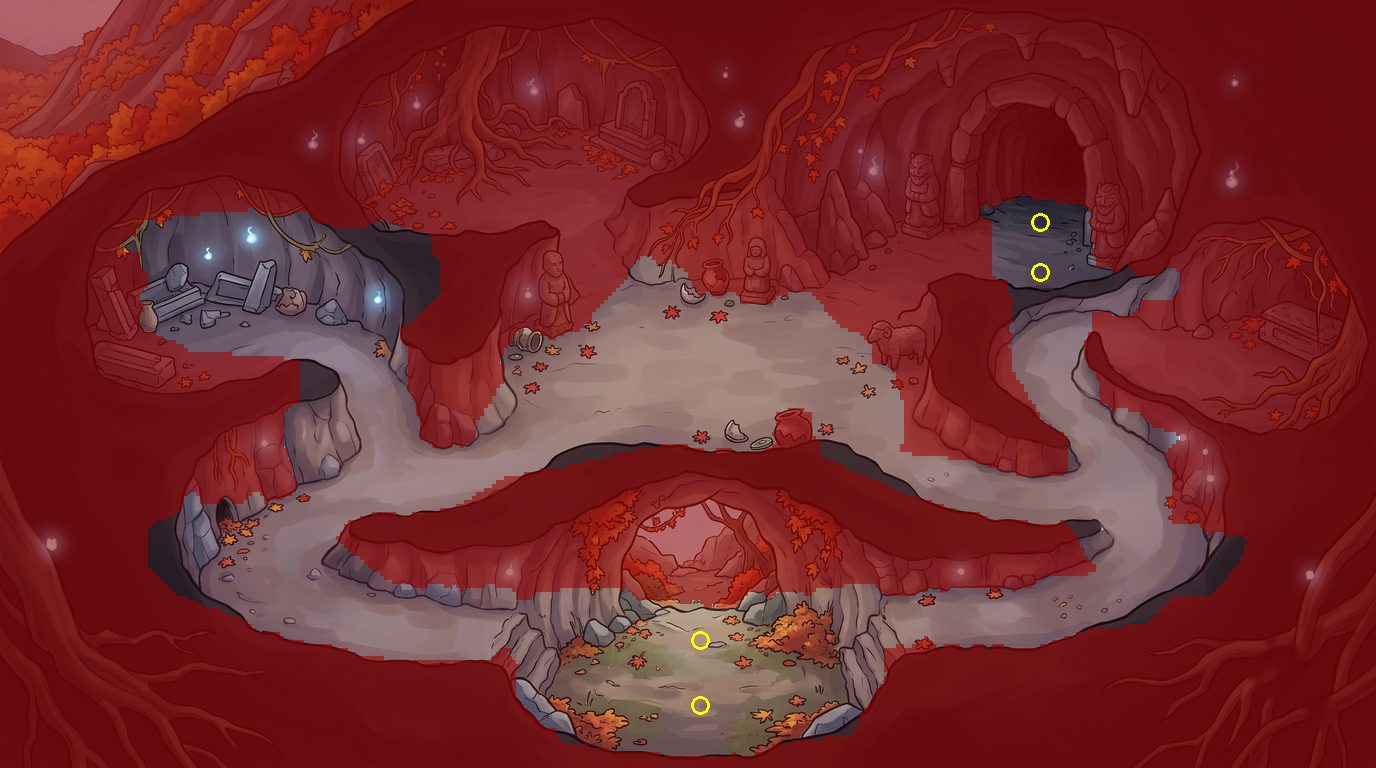
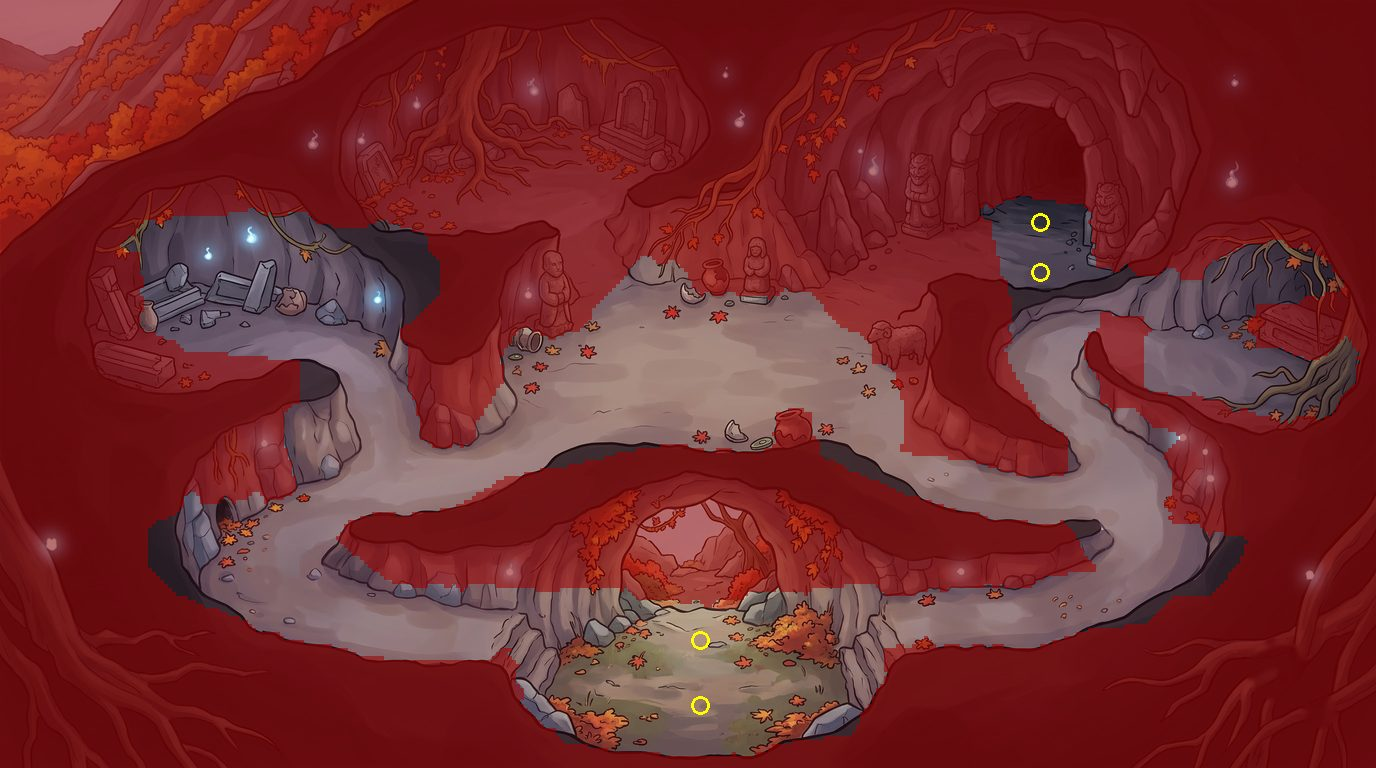
10-22: 패시브 아이콘 9, 너구리·여우 격자(막힌 방 열기), 규격 feedback_1022(무예 배율·맵 검사·벽 위 몬스터·효과 그림·무예 트리·단추·숫자 ×10·방어력 비율식), 효과 그림 Flow 136~138
Claude-Session: https://claude.ai/code/session_019MAg98TwRdw68YbpZExPcG

diff --git a/tools/art/grid_fine_polys.py b/tools/art/grid_fine_polys.py
@@ -96,12 +96,17 @@ MAPS['dungeon_boar_1']=copy.deepcopy(MAPS['dungeon_dog_1'])
 MAPS['dungeon_raccoon_1']=copy.deepcopy(MAPS['dungeon_dog_1'])
 MAPS['dungeon_fox_1']=copy.deepcopy(MAPS['dungeon_dog_1'])
 MAPS['dungeon_boar_1']['add']+=[[(640,535),(740,535),(750,600),(630,600)],[(1100,240),(1200,240),(1190,292),(1100,292)]]
-MAPS['dungeon_fox_1']['add']+=[[(980,200),(1090,200),(1100,265),(1170,270),(1180,295),(1010,300),(990,260)]]
+MAPS['dungeon_fox_1']['add']+=[[(980,200),(1090,200),(1100,265),(1170,270),(1180,295),(1010,300),(990,260)],
+  [(1180,300),(1230,250),(1300,240),(1350,280),(1360,380),(1330,420),(1250,420),(1190,380)],[(1150,320),(1212,310),(1212,385),(1150,392)]]   # 10-22 오른쪽 석관 방
+MAPS['dungeon_fox_1'].setdefault('force',[]).append([(1150,330),(1210,325),(1210,375),(1150,380)])
 MAPS['dungeon_fox_1']['cut']+=[[(88,258),(142,258),(142,345),(88,345)],[(88,335),(182,335),(182,388),(88,388)],
   [(530,245),(585,245),(585,335),(530,335)],[(735,235),(785,235),(785,300),(735,300)],[(865,315),(935,315),(935,370),(865,370)],
-  [(770,405),(815,405),(815,448),(770,448)],[(630,180),(800,180),(800,262),(630,262)],[(695,255),(735,255),(735,295),(695,295)]]
+  [(770,405),(815,405),(815,448),(770,448)],[(630,180),(800,180),(800,262),(630,262)],[(695,255),(735,255),(735,295),(695,295)],
+  [(1252,298),(1342,298),(1342,352),(1252,352)]]
 MAPS['dungeon_raccoon_1']['add']+=[[(670,440),(770,440),(760,600),(680,600)],[(960,205),(1040,205),(1045,280),(1010,300),(990,270)],[(840,270),(900,225),(960,205),(990,270),(920,305),(870,305)]]
-MAPS['dungeon_raccoon_1']['cut']+=[[(1045,245),(1250,245),(1250,342),(1045,342)],
+MAPS['dungeon_raccoon_1']['add']+=[[(1000,282),(1060,262),(1150,282),(1250,298),(1252,345),(1180,362),(1100,356),(1050,340)]]   # 10-22 보물 방도 걸어 들어가게(물건만 막음)
+MAPS['dungeon_raccoon_1']['force']=[[(866,258),(944,258),(934,322),(878,322)],[(818,292),(890,292),(890,334),(818,334)]]   # 10-22 가운데 방 → 우두머리 굴 입구 바로 이어짐
+MAPS['dungeon_raccoon_1']['cut']+=[[(1088,238),(1132,238),(1132,282),(1088,282)],[(1145,232),(1192,232),(1192,284),(1145,284)],[(1188,236),(1252,236),(1252,292),(1188,292)],
   [(890,560),(960,520),(1100,515),(1220,540),(1220,600),(1100,650),(950,650),(890,610)],[(640,185),(770,185),(770,262),(640,262)]]
 for k in ['dungeon_rat_1','dungeon_rat_2','dungeon_rat_3','dungeon_weasel_1','dungeon_snake_1','dungeon_snake_2']:
     MAPS[k]=dict(fromGrid=True)

diff --git a/tools/art/v3_passive_icons.py b/tools/art/v3_passive_icons.py
@@ -1,0 +1,11 @@
+# 패시브 아이콘 9개(Flow 134~135, 2026-10-22) → assets/items/icons/skill_<id>.png
+# 135번 시트는 Flow가 5개를 그림(4번째는 요청에 없던 글자 모양 → 버림)
+import sys, os; sys.path.insert(0,'/home/claude/seolhwa-rpg/tools/art')
+from v3_tier3_icons import items, OUT
+from PIL import Image
+R=items('skill_passive1_sheet.webp',['skill_p_body','skill_p_blade','skill_p_vital','skill_p_breath','skill_p_feet'],1,3)
+R.update(items('skill_passive2_sheet.webp',['skill_p_iron','skill_p_momentum','skill_p_master','_drop','skill_p_tiger'],1,3))
+os.remove(OUT+'_drop.png'); R.pop('_drop')
+P=Image.new('RGBA',(9*130,130),(70,70,70,255))
+for k,nm in enumerate(R): P.alpha_composite(R[nm].resize((128,128)),(k*130,1))
+P.convert('RGB').save('/home/claude/seolhwa-rpg/docs/passive_icons.png'); print(list(R))

diff --git a/docs/spec/feedback_1022.md b/docs/spec/feedback_1022.md
@@ -1,0 +1,86 @@
+# 2026-10-22 강콩 피드백 — 무예 데미지, 못 가는 곳, 벽 위 몬스터, 무예 그림, 무예창(트리), 단추 자리, 숫자 키우기
+
+숫자는 모두 임시값. 무예 정리본(강콩 검토용 문서): "검객 무예 정리본"(claude.ai 문서) — 이 파일과 내용이 같음.
+
+## 1. 무예가 평타보다 약함
+
+- 원인(코드 확인): 무예 데미지 = (무기 공격력 + 레벨 보너스) × `damageMul`로 평타와 같은 바탕인데, 여러 번 때리는 무예의 배율이 1보다 작음(휘돌려 베기 0.7·삼연참 0.8·회오리 0.8·호통 0.5) → **한 번에 뜨는 숫자가 평타보다 작아** 약해 보임. 한 방짜리도 2배 안팎이라 회심 평타(×회심 배율)와 비슷함.
+- 원칙: **공격 무예는 한 번 맞힐 때 평타의 1.2배 이상, 한 번 쓸 때 합계 평타의 2.5배 이상.**
+- `data/skills.json` 바꿀 값:
+
+| 무예 | 지금 | 바꿈 |
+|---|---|---|
+| power_slash 힘껏 베기 | 2.0 | **3.0** |
+| triple_cut 삼연참 | 0.8 ×3 | **1.3 ×3, 마지막 2.0** (`lastDamageMul` 새로) |
+| earth_split 지축 가르기 | 2.0 | **3.5** |
+| tiger_flash 백호일섬 | 4.0 | **7.0** |
+| whirl 휘돌려 베기 | 0.7/0.4초 | **1.2**/0.4초 |
+| dash_cut 질풍참 | 1.5 | **2.5** |
+| sword_wind 검풍 | 1.3 | **2.5** |
+| whirlwind 회오리 베기 | 0.8/0.4초 | **1.5**/0.4초 |
+| thunder_cut 뇌전참 | 2.5 | **4.0** |
+| roar 호통 | 0.5 | **1.5** (+멈칫 그대로) |
+| counter 받아치기 | 3.0 | **4.0** (반드시 회심 그대로) |
+| seven_star_dance 칠성검무 | 별 2 · 끝 5 | **별 3.5 · 끝 10** |
+
+- **자동 시험(필수)**: 몬스터 하나(움직이지 않게)를 세우고 무예마다 한 번 써서 들어간 데미지를 모두 더해 표로 남김(무예 · 맞힌 횟수 · 한 번 숫자 · 합계 · 평타 한 대 대비). **0이 들어가는 무예, 한 번 숫자가 평타보다 작은 무예가 있으면 버그로 보고 고침**(예: 범위가 몬스터 발 위치가 아닌 다른 점을 기준으로 잡히는지, 맨손일 때 막히는지, 우두머리 `superArmor` 때문에 빠지는지). 결과 표는 이 파일 "반영됨"에.
+
+## 2. 못 가는 곳 — 너구리굴 다른 방, 그리고 모든 맵
+
+- 기획 쪽 진단(격자로 발 상자 14×6이 설 수 있는 곳을 계산): **모든 맵에서 입구·도착은 이어져 있음.** 그런데 **그림으로는 방인데 격자가 막혀 못 들어가는 곳**이 있었음:
+  - 너구리굴 1층: **오른쪽 위 보물 방**(제가 보물 더미를 통째로 막음) — 이제 방 바닥은 갈 수 있고 항아리·거울만 막음. 그리고 우두머리 굴 입구가 가운데 방과 바로 안 이어지고 오른쪽 길로만 돌아가야 했음 → **가운데 방에서 바로 이어지게** 고침.
+  - 여우굴 1층: **오른쪽 석관 방** — 이제 들어감(석관만 막음).
+  - 새 격자: `docs/map_drafts/dungeon_raccoon_1_blocked.txt`, `dungeon_fox_1_blocked.txt`(cellSize 4) → 두 맵 `blocked` 교체.
+  - 산군굴 1층 몬스터 구역 "방 5"는 88%가 못 가는 칸 → 갈 수 있는 곳으로 옮김.
+- **자동 시험(필수, 앞으로 맵을 바꿀 때마다)**: `tools/test/`에 맵 검사 — 맵마다 (1) 시작·입구·도착 자리가 서로 이어져 있는지(주인공 발 상자 기준), (2) 몬스터 구역이 50% 넘게 갈 수 있는 곳인지(아니면 자동으로 줄이거나 옮김), (3) 갈 수 있는 곳인데 시작과 떨어진 섬(넓이 2,500px² 넘는)이 있는지. 결과를 표로.
+- 강콩이 "가야 하는데 못 가는 곳"을 또 찾으면 맵 이름과 대략 자리만 알려 주면 기획 쪽이 격자를 고침.
+
+## 3. 아직 몬스터가 벽 위로 넘어감
+
+- 원인 후보(확인 필요): ① 몬스터 몸 반경(키의 20%)이 큰 동물(곰·산군, 옆모습 폭이 키의 2배)에 비해 작아서, 발은 바닥인데 **그림이 절벽·벽 위로 걸쳐 보임** ② 특기 움직임(돌진·덮치기·밀려남·순간이동·끌어당김·물러서기·무리 따라오기) 중 격자 검사를 안 하는 길이 남음 ③ 맵을 바꾼 뒤(4px) 몬스터가 예전 자리 그대로 생김.
+- 고칠 것:
+  - 몬스터 막힘 상자: 가로 = **옆모습 그림 폭의 50%**(최소 10px), 세로 = 8px. 모든 움직임에 같은 검사, 가로·세로 따로 미끄러지게.
+  - 생기는 자리·돌아다닐 목표: 그 상자가 들어가는 칸만.
+  - **자동 시험(필수)**: 맵마다 몬스터를 모두 띄워 60초(게임 시간) 돌리며, 우두머리 특기·주인공의 무예 밀어내기·끌어당김까지 섞어서, **발 상자가 막힌 칸에 걸린 순간**을 몬스터·움직임 종류와 함께 기록. 0건이 될 때까지.
+
+## 4. 무예 효과를 더 화려하게 — 그림을 만듦
+
+- 판단: 코드로 그린 도형(호·원·알갱이)은 아무리 키워도 도형처럼 보임 → **붓으로 그린 효과 그림 12장**(Flow 136~138, `docs/prompts_2026-10-22_vfx.md`)을 만들고, 코드는 그 그림을 키우기·돌리기·늘리기·흐리기·여러 장 겹치기로 움직임. 여러 장짜리 움직이는 그림(프레임)은 Flow가 장마다 모양을 못 맞춰서 안 씀.
+- 지금 할 것(그림이 오기 전): `assets/fx/<id>.png`를 읽어 **더하기 섞기(ADD)**로 그리는 공용 도구(`fxSprite(id, x, y, {scale, rot, stretch, alpha, ms, tween})`)를 만들어 두고, 그림이 없으면 지금 도형 연출로 대신. 그림 id와 쓰는 무예는 프롬프트 파일 맨 아래 표.
+- 그림이 오면 기획 쪽이 오려서 올리고, 무예마다 붙이는 법을 따로 넘김.
+
+## 5. 무예창 = 트리(검객)
+
+- 정리본: "검객 무예 정리본" 문서(가지 3 + 심법, 22개 무예의 레벨·값·기다림·데미지·범위·설명).
+- 가지(`data/skills.json` 무예마다 `branch`, `requiresSkill`):
+  - 검술: 힘껏 베기 → 삼연참 → 지축 가르기 → 백호일섬
+  - 풍술: 휘돌려 베기 → 질풍참 → 검풍 → 회오리 베기 → 뇌전참
+  - 기공: 숨 고르기 → 호통 → 받아치기
+  - 끝: 칠성검무(백호일섬 + 뇌전참 둘 다)
+  - 심법(패시브): 단련된 몸 → 검술 숙련 → 급소 노리기 → 질긴 숨 → 가벼운 발 → 철갑 기운 → 기세 → 무예 달인 → 산군의 기백
+- 배우는 조건: 레벨 + 값 + `requiresSkill`(앞 무예). **이미 배운 무예는 그대로 둠**(앞 무예가 없어도 빼지 않음). `requiresSkill` 규칙은 `data/game.json` `skillTreeRequires` 켜고 끄기(기본 켬, 강콩 판단 대기).
+- 무예창 화면: 세로 줄 4개(검술·풍술·기공·심법) + 맨 아래 가운데 칠성검무, 무예끼리 선으로 이음. 칸 상태 3가지(배움 = 밝게 / 지금 배울 수 있음 = 테두리 반짝 / 못 배움 = 흐림 + "레벨 N" 또는 "앞 무예 필요"). 칸을 누르면 오른쪽에 정보창(이름·가지·레벨·값·기다림·**지금 내 공격력으로 계산한 데미지**(예: "약 690 × 3번")·범위·설명·[무예 칸에 넣기]). 액티브·패시브 탭은 이 한 화면으로 합침.
+- 아이폰 가로 화면에 다 들어가게(필요하면 세로로 넘김). 아이콘은 무예 그림(액티브 금빛·패시브 은빛).
+- **패시브 아이콘 9개 준비됨**: `assets/items/icons/skill_p_*.png`(데이터 경로는 이미 있음).
+
+## 6·7. 공격 단추·무예 칸 자리
+
+- 공격 단추: 지름 78 → **68**(누르는 영역 지름 84), **오른쪽 아래 구석으로**(화면 오른쪽·아래 끝에서 safe-area 안쪽 12px).
+- 무예 칸 8개: 공격 단추 **위로** 옮김 — 2줄 × 4칸, 오른쪽 끝을 공격 단추 오른쪽 끝에 맞춤, 아래 줄이 공격 단추 위 8px. 칸 크기 그대로(48, 누르는 영역 54). 칸과 공격 단추의 누르는 영역이 겹치지 않게.
+- 아이폰 가로에서 조이스틱·위쪽 단추와 겹치지 않는지 찍어 확인.
+
+## 8. 숫자 키우기 — 데미지·체력 ×10
+
+- 강콩: 경험치는 270씩 들어오는데 데미지는 10 단위라 때리는 맛이 없음 → **데미지·체력·방어력 쪽 숫자를 모두 10배**(비율은 그대로). 경험치·엽전·값은 그대로.
+- 10배 할 것: 주인공 기본 체력(`player.maxHp`)·레벨당 체력(`hpPerLevel`)·레벨당 데미지(`damagePerLevel`)·맨손 데미지(`attack.damage`), 무기 `damage` 20종, 몬스터 `hp`·물기 데미지·특기(`moves`) 데미지 전부, 장비 `defense`·팔찌 `maxHp`·`attack`, 주먹밥 같은 고정 회복량. 배율(%)·무예 `damageMul`은 그대로.
+- **방어력 계산을 바꿈(중요)**: 지금은 `받는 데미지 = 데미지 − 방어력`이라 구간 5 장비(방어 14)만 껴도 너구리(데미지 7)가 **1밖에 못 줌** — 지금도 몬스터가 거의 아프지 않은 원인. → `받는 데미지 = 데미지 × 200 / (200 + 방어력)` (최소 1, 10배 뒤 숫자 기준). 예: 방어 140이면 59%만 받음, 방어 250이면 44%. `src/core/stats.js` `damageTaken`, 값 200은 `data/game.json` `defenseK`.
+- 화면: 1,000이 넘는 숫자는 쉼표(예: 2,600). 데미지 숫자 글자는 자리 수가 늘어도 겹치지 않게 조금 작게.
+- 문서 표(`tiers.md`·`weapon_list.md`·`tier3_snake.md`·`tier4_9.md`)의 데미지·체력·방어력은 **10배 전 값** → 각 파일 맨 위에 "2026-10-22부터 데미지·체력·방어력은 이 표 ×10" 한 줄.
+- 시험: 너구리굴(레벨 27, 구간 5 장비)에서 평타 한 대가 200 안팎, 너구리 체력 520이 3~4대, 너구리에게 맞으면 30~40쯤 깎이는지.
+
+## 확인할 것 (강콩 아이폰)
+
+- 무예가 평타보다 확실히 세게 보이는지, 숫자가 커져 때리는 맛이 나는지, 몬스터가 다시 아파졌는지.
+- 너구리굴 보물 방·여우굴 석관 방에 들어가지는지, 벽 위를 걷는 몬스터가 없는지.
+- 공격 단추·무예 칸 자리.
+- 무예 트리의 "앞 무예를 배워야 다음" 규칙을 둘지(정리본 문서 맨 아래 체크).

diff --git a/docs/prompts_2026-10-22_vfx.md b/docs/prompts_2026-10-22_vfx.md
@@ -1,0 +1,61 @@
+# Flow 프롬프트 136~138 — 무예 효과 그림 12장 (2026-10-22)
+
+- 왜 그림인가: 지금 무예 연출은 코드로 그린 도형(호·원·알갱이)이라 아무리 키워도 "도형"처럼 보임. **붓으로 그린 효과 그림 한 장**을 코드가 키우고·돌리고·늘리고·흐리게 하면 훨씬 화려해짐. 여러 장짜리 움직이는 그림(프레임)은 Flow가 장마다 모양을 맞추지 못해서 안 씀 — **한 장 그림 + 코드 움직임**.
+- **검은 배경**으로 뽑음 → 기획 쪽이 밝기로 투명하게 만들어(빛 효과는 검정 = 투명) `assets/fx/<id>.png`로 오림. 게임에서는 더하기 섞기(빛나게)로 그림.
+- 참조 그림 없음(그림체만 맞춤). 받으면 기획 쪽이 오려 Claude Code에 넘김.
+
+## 136. 무예 효과 4장 — 베기
+```
+[만들 것] 게임용 무예 효과 그림 4개를 가로 한 줄에, 서로 넉넉히 떨어지게, 왼쪽부터:
+1. 붓 베기 초승달: 한 번의 굵은 붓 획으로 그린 커다란 초승달 모양 칼 궤적. 가운데는 흰빛, 바깥으로 갈수록 금빛, 끝은 붓이 갈라진 듯 가늘게 흩어짐.
+2. 세 줄 베기 자국: 비스듬히 나란한 날카로운 빛 획 세 줄, 흰빛 중심에 붉은 금빛 테두리, 획 끝에 작은 불티.
+3. 땅 가르기: 위에서 내려다본, 앞으로 길게 갈라진 땅의 금 한 줄기와 그 틈에서 솟는 주황빛, 양옆으로 튀는 작은 돌 조각.
+4. 반달 검기: 옆으로 누운 푸른 반달 모양 칼바람, 앞쪽이 밝고 뒤로 빛 꼬리가 길게 흩어짐.
+
+[그림체] 한국 전통 설화풍 게임 효과, 먹 붓 느낌이 살아 있는 빛나는 효과, 3D 렌더 느낌의 부드러운 빛 번짐, 밝고 맑은 색.
+
+[출력] 단색 순수 검은 배경, 효과만(사람·칼·몬스터·땅 배경 없음), 글자·테두리·칸 나눔 선 없음, 정확히 4개, 각각 잘리지 않게, 가로로 긴 화면(16:9)
+```
+
+## 137. 무예 효과 4장 — 바람·번개·기운
+```
+[만들 것] 게임용 무예 효과 그림 4개를 가로 한 줄에, 서로 넉넉히 떨어지게, 왼쪽부터:
+1. 회오리 고리: 위에서 비스듬히 내려다본 둥근 회오리바람 고리, 흰빛과 연한 하늘빛 바람 줄기가 빙 돌며 나뭇잎 몇 장이 섞임, 가운데는 비어 있음.
+2. 번개 기둥: 위에서 아래로 내리꽂히는 굵은 지그재그 번개 한 줄기, 흰빛 중심에 노란빛·푸른빛 테두리, 아래 끝에서 빛이 둥글게 터짐.
+3. 충격파 고리: 위에서 비스듬히 내려다본 납작한 둥근 충격파 고리 두 겹, 바깥 고리는 흐리고 안쪽은 밝은 금빛, 먼지가 조금 섞임.
+4. 질주 빛줄기: 옆으로 아주 길게 뻗은 한 줄기 빛 띠, 앞쪽은 날카롭고 뒤로 갈수록 흩어지는 속도선 여러 줄.
+
+[그림체] 한국 전통 설화풍 게임 효과, 먹 붓 느낌이 살아 있는 빛나는 효과, 3D 렌더 느낌의 부드러운 빛 번짐, 밝고 맑은 색.
+
+[출력] 단색 순수 검은 배경, 효과만(사람·칼·몬스터·땅 배경 없음), 글자·테두리·칸 나눔 선 없음, 정확히 4개, 각각 잘리지 않게, 가로로 긴 화면(16:9)
+```
+
+## 138. 무예 효과 4장 — 큰 기술
+```
+[만들 것] 게임용 무예 효과 그림 4개를 가로 한 줄에, 서로 넉넉히 떨어지게, 왼쪽부터:
+1. 흰 호랑이 기운: 앞으로 달려드는 흰 호랑이 머리와 앞발 모양의 빛 덩어리, 흰빛과 금빛, 뒤로 빛 꼬리가 흩어짐.
+2. 별빛 폭발: 가운데에서 사방으로 터지는 금빛 별빛 폭발, 큰 십자 반짝임과 작은 별 조각 여러 개.
+3. 금빛 막: 앞에서 본 반투명한 둥근 금빛 방패막, 가장자리가 밝고 육각 무늬가 아주 옅게 비침.
+4. 치유 기운: 아래에서 위로 감겨 올라가는 연둣빛·하늘빛 숨결 소용돌이와 작은 잎·빛 알갱이.
+
+[그림체] 한국 전통 설화풍 게임 효과, 먹 붓 느낌이 살아 있는 빛나는 효과, 3D 렌더 느낌의 부드러운 빛 번짐, 밝고 맑은 색.
+
+[출력] 단색 순수 검은 배경, 효과만(사람·칼·몬스터·땅 배경 없음), 글자·테두리·칸 나눔 선 없음, 정확히 4개, 각각 잘리지 않게, 가로로 긴 화면(16:9)
+```
+
+## 어느 무예에 쓰나 (받은 뒤 `feedback_1022.md` 4에 맞춰 Claude Code가 붙임)
+
+| 그림 id | 쓰는 무예 |
+|---|---|
+| `fx_slash_crescent` | 힘껏 베기·삼연참·칠성검무(별마다)·평타 회심 |
+| `fx_slash_triple` | 삼연참 마지막·맞힘 자국 |
+| `fx_earth_crack` | 지축 가르기 |
+| `fx_wind_crescent` | 검풍 |
+| `fx_whirl_ring` | 휘돌려 베기·회오리 베기 |
+| `fx_lightning` | 뇌전참 |
+| `fx_shock_ring` | 호통·충격파·착지 |
+| `fx_dash_streak` | 질풍참·백호일섬 |
+| `fx_tiger_spirit` | 백호일섬 |
+| `fx_star_burst` | 칠성검무 마지막·별 |
+| `fx_gold_shield` | 받아치기 |
+| `fx_heal_swirl` | 숨 고르기 |

diff --git a/CLAUDE.md b/CLAUDE.md
@@ -64,6 +64,7 @@ docs/          문서 사본
 | [docs/spec/tiers.md](docs/spec/tiers.md) | **구간표(2026-10-18)**: 레벨 1~40, 사냥터 9곳(뱀굴~산군굴), 몬스터 수치, 구간별 장비(모자·토시·신발·팔찌·옷), 레벨 표 40까지, 뒷산 오솔길 |
 | [docs/spec/weapon_list.md](docs/spec/weapon_list.md) | **무기 목록 v2(2026-10-18)**: 20종(구간마다 2자루, 둘째는 우두머리 재료로 제작), 디자인·무기별 고유 연출(`fx`) |
 | [docs/spec/skills_impact.md](docs/spec/skills_impact.md) | **타격감·무예 확장(2026-10-18)**: 멈춤·흔들림 키움, 타격 섬광·베인 자국·회심·쓰러뜨림 연출, 무예 13개(새 10개)·무예 칸 4개·무예창, 직업 대비 `job` |
+| [docs/spec/feedback_1022.md](docs/spec/feedback_1022.md) | **2026-10-22**: 무예 데미지 배율 올림·자동 시험, 못 가는 방(너구리·여우 격자)·맵 검사, 벽 위 몬스터(막힘 상자·시뮬 시험), 무예 효과 그림(Flow 136~138), 무예창 트리, 공격 단추 68·무예 칸 위로, **데미지·체력 ×10 + 방어력 비율식** |
 | [docs/spec/feedback_1021.md](docs/spec/feedback_1021.md) | **2026-10-21**: 공격 단추 줄이고 무예 칸 8개(네모), 마을 앞뒤 가림 조각 v4(파일만 바뀜), 얻은 경험치 표시, 패시브 아이콘 프롬프트, 성별·직업 방향(판단 대기) |
 | [docs/spec/feedback_1020.md](docs/spec/feedback_1020.md) | **2026-10-20 강콩 피드백 11**: 정밀 격자(칸 4px, 19맵), 몬스터 걷기(그림 방향·벽 검사), 관리자 창 스크롤·1개씩, 무예 연출 공통 층, 숨 고르기, 단추 터치, 패시브 9개, 타격 효과, 버리기, 몬스터 수 +1 |
 | [docs/spec/tier4_9.md](docs/spec/tier4_9.md) | **구간 4~9 묶음(2026-10-19 그림 준비됨)**: 마을 새 입구 3·뒷산 오솔길·굴 6곳(맵 13, 격자 초안), 동물 12종·우두머리 6, 무기 12(`fx`), 모자 6(백옥관은 상투 그대로), 전리품 12, 마을 사람 3 |
@@ -123,6 +124,7 @@ docs/          문서 사본
 - [x] **2026-10-21 요청**(`docs/spec/feedback_1021.md` "반영됨"): 무예 칸 8개(네모, 2줄)·공격 단추 78, 마을 앞뒤 가림 v4 확인, 얻은 경험치 글자·막대 %, 패시브 아이콘 경로 — 2026-10-21 반영, 강콩 아이폰 확인 필요
 - [x] **10-21 밤 긴급 수정**(`feedback_1021.md` "추가 수정"): 평타마다 화면이 검게 됨(빛 번짐 기본 끔·무예 중에만·아이폰 자동 끔·관리자 설정), 관리자 칸 채우기 1~8/9~13·무예 기다림 없음 — 강콩 아이폰 확인 필요
 - [x] **무예 시전 때 어두워지는 범위**(`feedback_1021.md` 6 "반영됨"): 바닥·물건·NPC·상관없는 몬스터·떨어진 물건만 어둡게, 주인공·연출·맞은 몬스터는 밝게 — 강콩 아이폰 확인 필요
+- [ ] **2026-10-22**(`docs/spec/feedback_1022.md`): 무예 배율·시험, 너구리·여우 격자, 맵 검사, 벽 위 몬스터, 효과 그림 도구, 무예 트리, 단추 자리, 숫자 ×10·방어력식 — Claude Code 반영 대기
 
 ## 작업 규칙
 

diff --git a/docs/handover_planning.md b/docs/handover_planning.md
@@ -75,6 +75,7 @@
 2-6. (10-19) Flow 81~133 받음(Google Drive "Chrome에서 저장됨" → `assets/source/v3/`, 파일 이름 NFC로) → 강콩 "한꺼번에" → **구간 4~9 모두 가공**: 무기 12 + 청동·비늘검 다시 오림(`v3_weapon_sheet.py` — 술 달린 칼 기울기·고리 잘림 고침), 모자 6(`hat_cut2.py` — 원본 홑옷과 차이로 오림, 백옥관은 상투 지우개 안 씀), 동물 12종 + 뱀 움직이기(`v3_tier4_9_monsters.py`), 맵 13(`v3_tier4_9_maps.py`) + 격자 초안(`grid_draft_tier4_9.py` — 밝기 자동 + 입구 이음, 13장 손으로 그리는 대신), 전리품 12·마을 사람 3(`v3_tier4_9_npcs_icons.py`). Claude Code 전달 = `docs/spec/tier4_9.md`. 새 구조 뒷산 오솔길: 대숲 길 끝 → 오솔길, 굴 4곳(여우 왼쪽 위·곰 단풍 아래·멧돼지 오른쪽·산군 가운데 위). 너구리굴은 곳간 뒤 대숲 왼쪽 끝, 들개 소굴은 폐가.
 2-7. (10-20) 강콩 피드백 11가지 → `docs/spec/feedback_1020.md`. 기획 쪽에서 한 것: 몬스터 5종·뱀 옆모습 방향 고침(뒤로 걷던 원인, `v3_tier4_9_monsters.py`에서 자동 뒤집기 뺌), **정밀 격자 4px 19장**(`tools/art/grid_fine.py` — 바닥 다각형을 25px 단위로 따고 GrabCut으로 먹선에 맞춤, 다각형은 `grid_fine_polys.py`; 들쥐·족제비·뱀굴은 기존 격자에서 테두리만). 패시브 9개 설계. 패시브 아이콘 그림은 다음 Flow 때.
 2-8. (10-21) 강콩: 패시브 아이콘·무예 칸 8개·마을 가림 다듬기·경험치 표시 + 성별·직업 고민 → `docs/spec/feedback_1021.md`. 마을 가림 조각 v4 직접 만들어 게임 화면 64곳으로 확인(`tools/art/village_objects_v4.py`, 시안 `docs/village_occlusion_v4.png`). 패시브 아이콘 Flow 134~135(`docs/prompts_2026-10-21_passive.md`). 성별·직업은 계획서 결정 로그에 제안만(강콩 판단 대기).
+2-9. (10-22) 강콩 피드백 8 → `docs/spec/feedback_1022.md`. 기획 쪽: 패시브 아이콘 9 오림(`tools/art/v3_passive_icons.py`, 135번 시트의 요청 밖 4번째는 버림), 맵 격자 검사(발 상자 기준 — 입구는 모두 이어짐, 대신 그림상 방인데 막힌 곳 발견) → 너구리 보물 방·여우 석관 방·너구리 우두머리 입구 이음, 방어력 '뺄셈'식 때문에 몬스터가 1밖에 못 주던 문제 발견 → 비율식 제안, 무예 효과 그림 Flow 136~138(`docs/prompts_2026-10-22_vfx.md`, 검은 배경 → 밝기로 투명), 무예 정리본 문서(claude.ai '검객 무예 정리본').
 3. (완료 10-16) Claude Code 전달 내용 `feedback_1015.md` "7-1", CLAUDE.md 지금 단계 갱신 → 강콩이 Claude Code에 넘김.
 4. 강콩 아이폰 확인 받을 것: 10-15 피드백 반영판(무예 연출·데미지 숫자·귀환 단추·정보창·걸음), 새 굴 3곳 격자(어긋난 칸은 게임 격자 편집), 족제비굴 입구 자리.
 5. 열린 질문(강콩 답 기다림): 쥐왕이 새 무기 하나를 보상으로 떨어뜨릴지.
